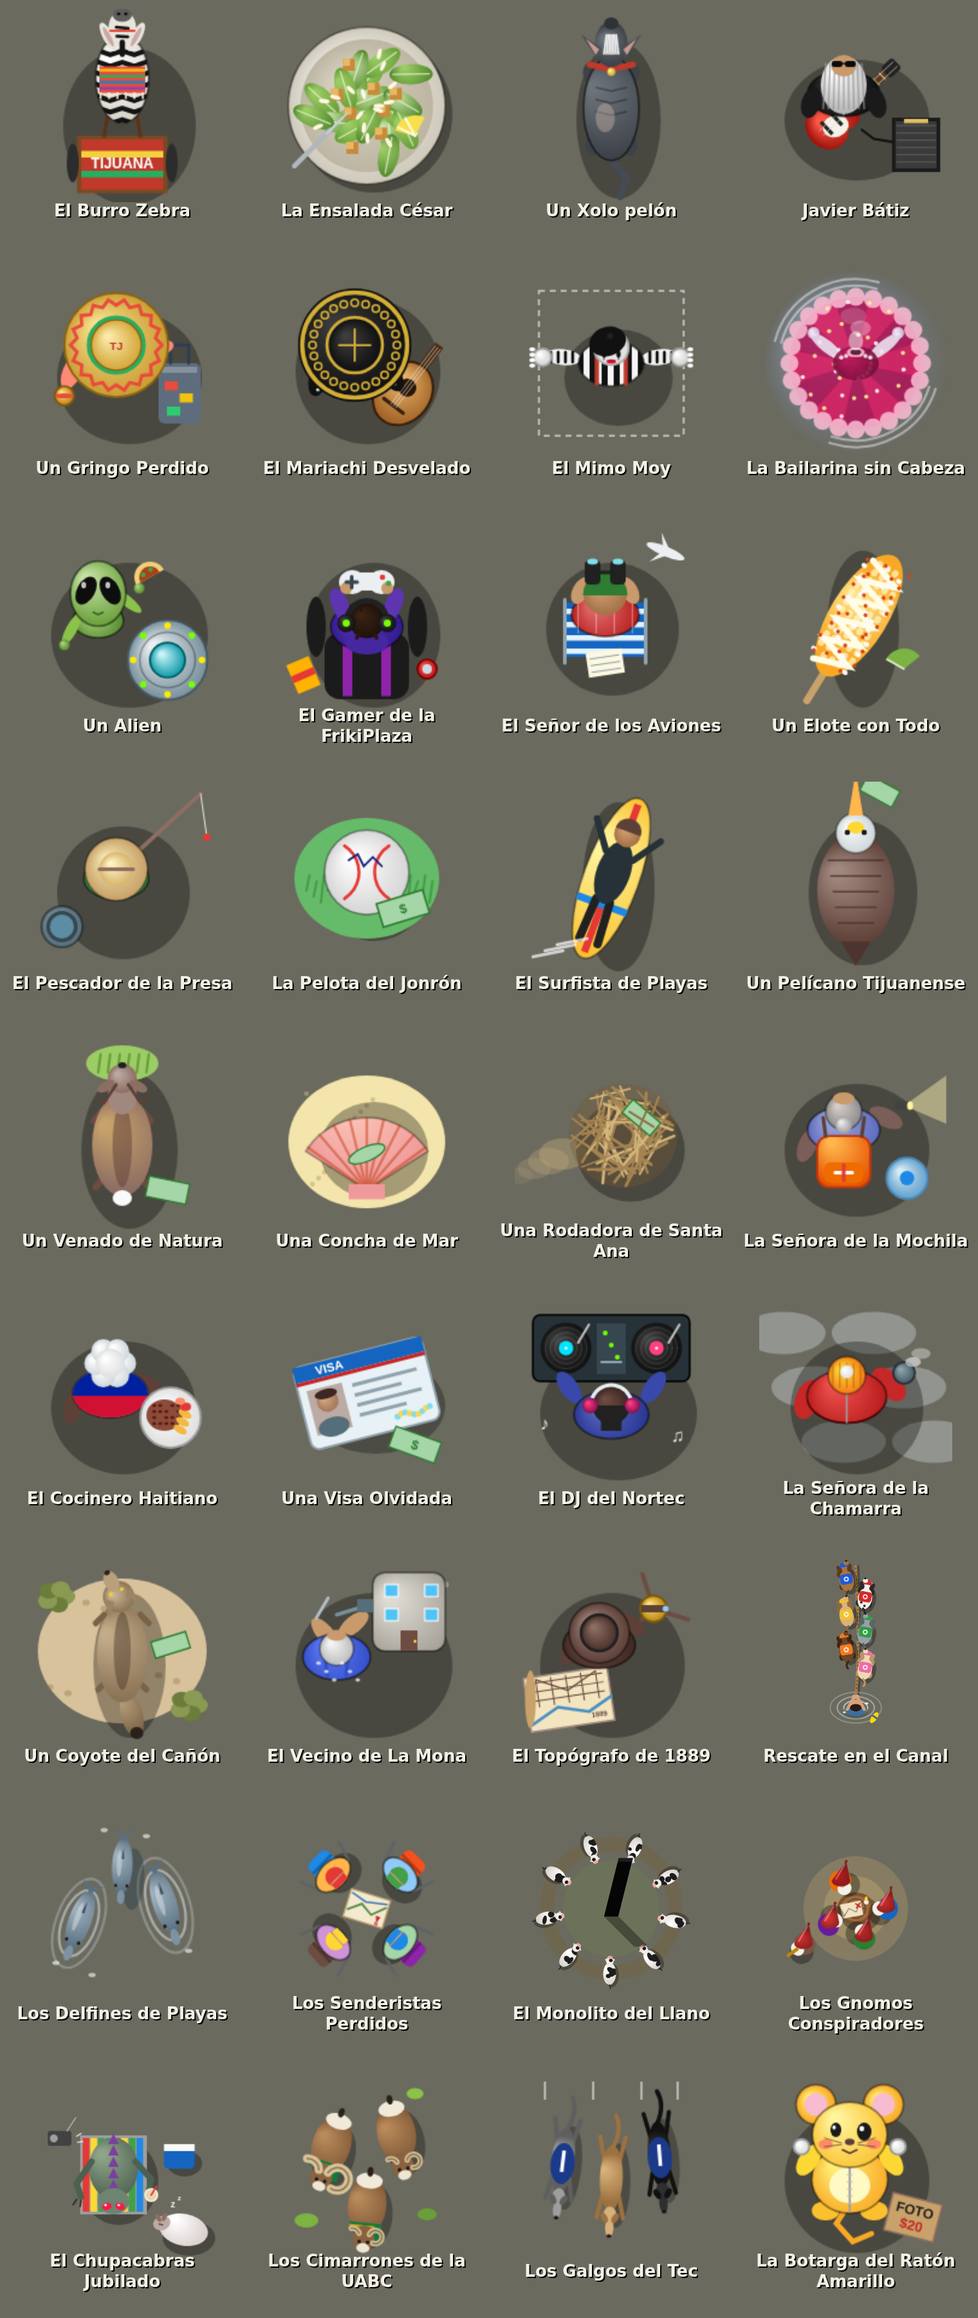
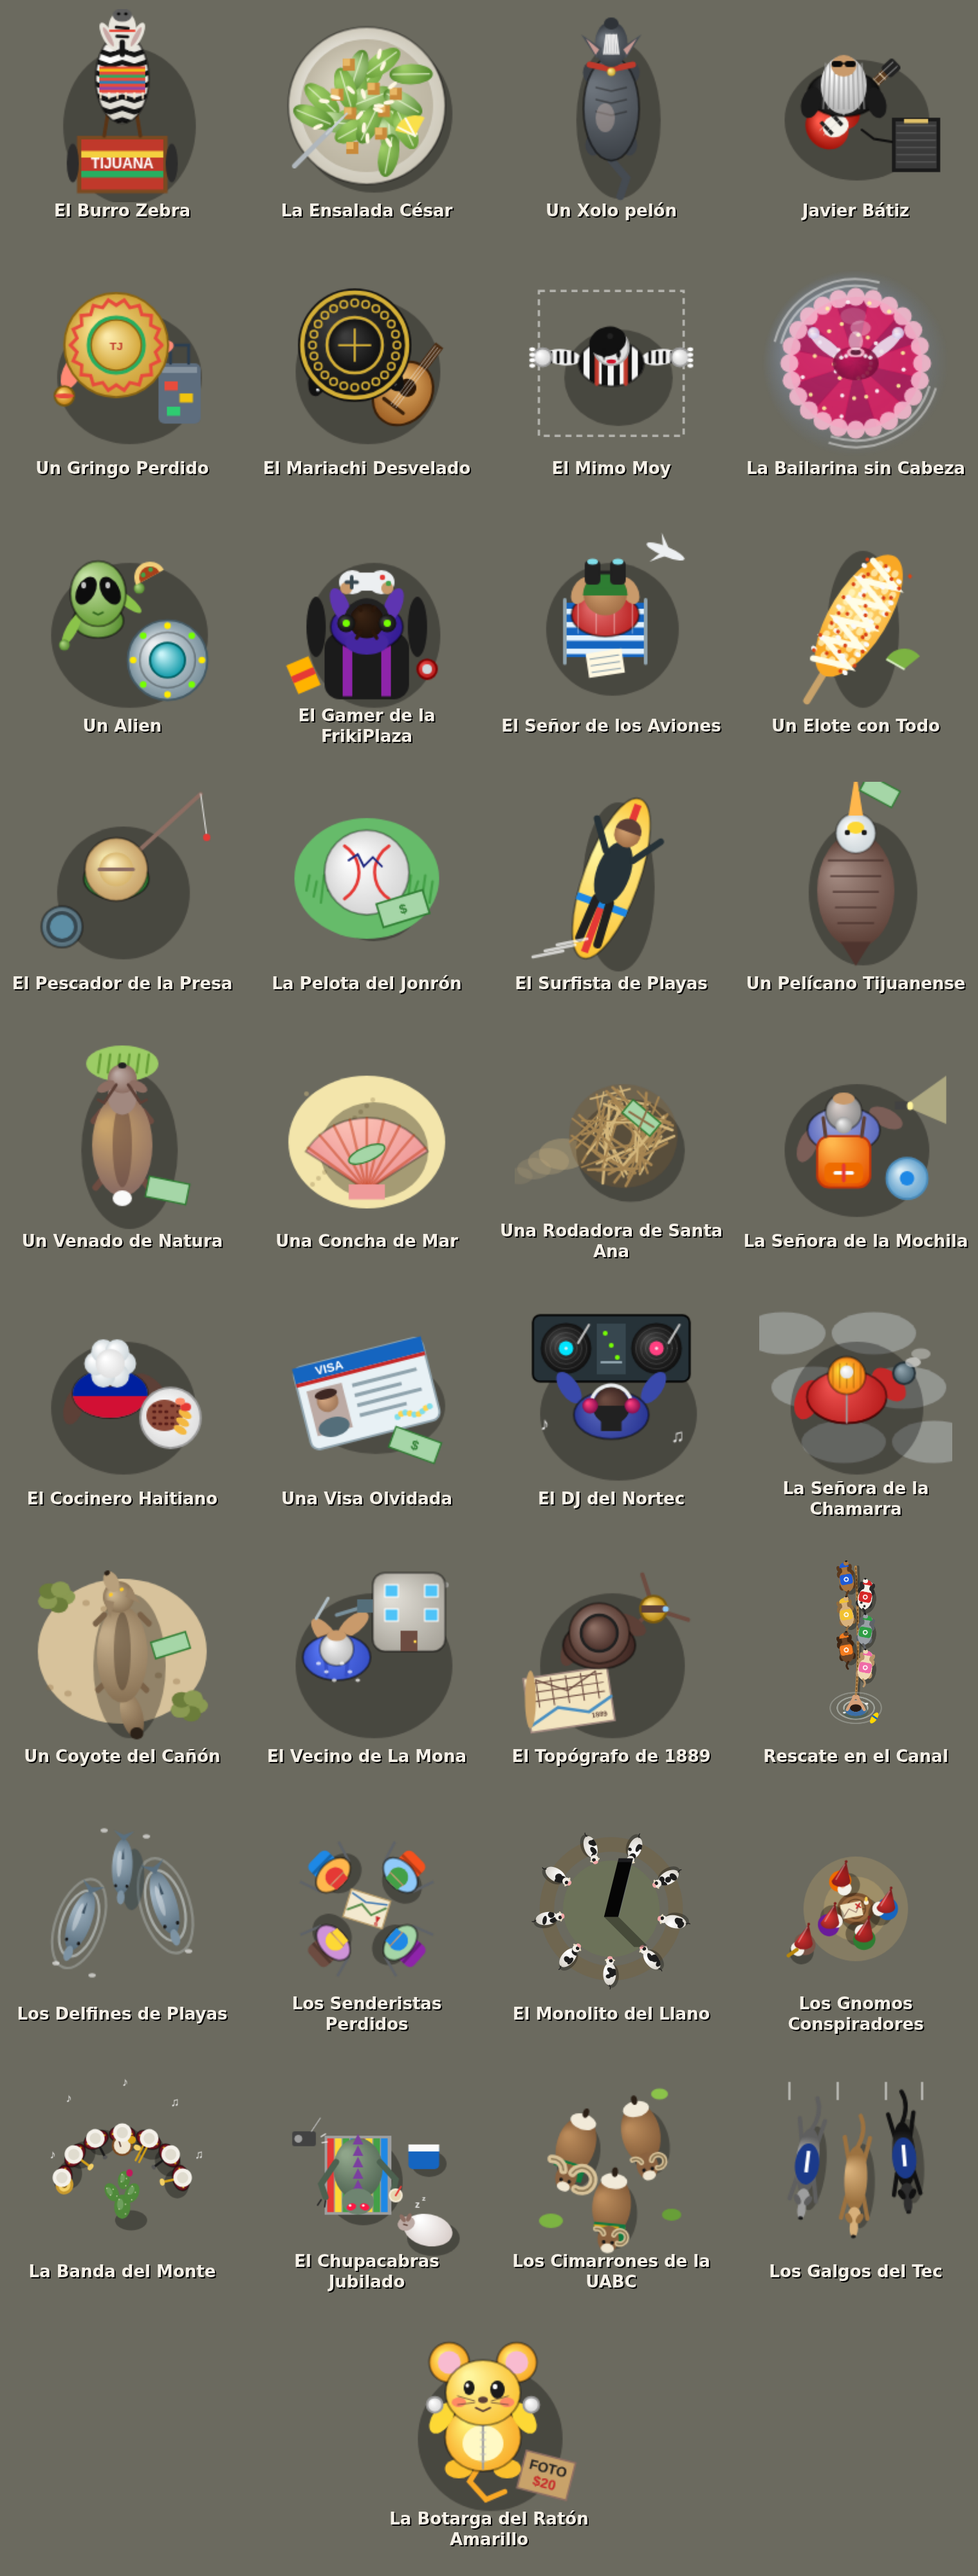
La banda del monte tocandole a un nopal, en Terrazas del Valle

diff --git a/src/game.js b/src/game.js
@@ -225,6 +225,9 @@ const EGGS = [
   // en un terreno vacio de Natura (sin calles, casas ni agua cerca)
   { k: 'gnomos', name: 'Los Gnomos Conspiradores', at: [12382, 13312], pay: 300, fija: true, libre: true, rot: 0, quieto: true, r: 70,
     say: '(Cinco gnomos de jardín en bolita, alrededor de un tronquito con una vela y un plano marcado con una X, se quedan quietitos en cuanto te ven.) Uno te guiñó el ojo y te pasó un billete "para que no hayas visto nada".' },
+  // en el monte de Terrazas del Valle (sin calles, casas ni agua cerca)
+  { k: 'banda', name: 'La Banda del Monte', at: [18162, 9912], pay: 300, fija: true, libre: true, rot: 0, quieto: true, r: 80,
+    say: '(En pleno monte, una banda completa, con tuba, tambora, trompetas, clarinetes y trombón, le toca con todo el corazón a un nopal.) "Nos dijeron que aquí era la boda." Te pasaron una lana para que les pidas una canción.' },
   // en el monte de La Presa (sin calles, casas ni agua cerca)
   { k: 'chupacabras', name: 'El Chupacabras Jubilado', at: [13742, 9912], pay: 300, fija: true, libre: true, rot: 0, quieto: true, r: 70,
     say: '(En pleno monte, el mismísimo chupacabras toma horchata en una silla de playa, junto a una cabra que duerme tranquilita.) "Ya nadie me tiene miedo; ahora me piden selfies." Te dio un billete medio mordido.' },
@@ -3211,6 +3214,12 @@ const FRASES_FIJAS = {
   '¡Nomás era mi chancla, no hacía falta tanto!', '¡Gracias, perritos! ¿Aceptan croquetas o transferencia?',
   '¡Que alguien les avise que ya me puedo parar, el agua me llega a la cintura!',
   '¡Yo nomás venía a ver si estaba la marea alta!',
+  ],
+  banda: [
+    '¡Y pura banda, compa!', 'Esta va dedicada al nopal, que no se ha ido en toda la noche.',
+    'Nos contrataron para una boda. Creo que nos dieron mal la dirección.', 'Llevamos tocando desde el sábado. Hoy es martes.',
+    'El de la tuba ya no siente los labios, pero no se raja.', '¿Otra? ¡Otra! ...el nopal pidió otra.',
+    'Se cobra por hora, pero al nopal le fiamos.', 'Aquí en el monte nadie se queja del ruido. Ensayamos a gusto.',
   ],
   chupacabras: [
     'Ya no se espanta nadie. En los noventa salía en todos los noticieros.', 'No, no chupo cabras. Soy vegetariano desde el 2003.',
@@ -6571,7 +6580,38 @@ function makeEggs(scene) {
     line('#5d4037', 0.3, [[30.4, 35.2], [31.2, 35.4]]); // ojo cerrado
     x.fillStyle = 'rgba(255,255,255,0.85)'; x.font = 'bold 2.2px sans-serif'; x.fillText('z', 33, 31.4); x.font = 'bold 1.6px sans-serif'; x.fillText('z', 34.6, 29.8);
   };
-  const GRANDE = { monolito: 120, gnomos: 48, chupacabras: 44 };
+  // la banda en medio circulo tocandole a un nopal: texanas blancas, camisas iguales y cada quien con su instrumento
+  draw.banda = () => {
+    const c = 24, cy = 30;
+    // el nopal: pencas verdes con espinitas y una tuna
+    shadow(c + 1, cy + 6, 4, 2.5);
+    for (const [px, py, a, k] of [[0, 4, 0, 1], [-2.6, 0.4, -0.5, 0.8], [2.4, 0.6, 0.45, 0.85], [0.4, -2.6, 0.1, 0.75]]) {
+      x.save(); x.translate(c + px, cy + py); x.rotate(a); ell('#4f8a3a', 0, 0, 2 * k, 3 * k); ell('rgba(255,255,255,0.18)', -0.5 * k, -0.6 * k, 0.8 * k, 1.4 * k);
+      for (let j = 0; j < 4; j++) ell('#e9e3c9', (j % 2 - 0.5) * 1.6 * k, (j - 1.5) * 1.2 * k, 0.15, 0.15); x.restore();
+    }
+    ell('#c2185b', c + 1.8, cy - 4.4, 0.8, 0.9); // la tuna
+    // los musicos en medio circulo arriba del nopal, viendolo
+    const M7 = ['tuba', 'trompeta', 'clarinete', 'tambora', 'trombon', 'clarinete', 'trompeta'];
+    M7.forEach((ins, i) => {
+      const a = Math.PI + (i + 0.5) / M7.length * Math.PI, mx = c + Math.cos(a) * 15, my = cy + Math.sin(a) * 14;
+      x.save(); x.translate(mx, my); x.rotate(Math.atan2(cy - my, c - mx) - Math.PI / 2); // +y hacia el nopal
+      shadow(0, 0, 3.6, 3);
+      shoulders(0, 0, '#9c1f2e', '#5e0f1a', 3.2, 2.1); // camisa vino de la banda
+      x.fillStyle = '#d4a017'; x.fillRect(-2.6, -0.3, 5.2, 0.5); // el bordado dorado
+      // el instrumento, hacia el frente
+      if (ins === 'tuba') { ell('#c99a2e', -1.6, 0.6, 2.4, 2.2); ell('#f2cf66', -1.6, 0.6, 1.7, 1.5); ell('#8a6514', -1.6, 0.6, 0.8, 0.7); }
+      else if (ins === 'tambora') { ell('#7a4a22', 0, 2.8, 2.6, 2.6); ell('#efe6d2', 0, 2.8, 2.1, 2.1); ell('#d4a017', 2.4, 1.4, 1, 1); line('#5d4037', 0.35, [[-1, 1], [-0.4, 3]]); }
+      else if (ins === 'trompeta') { line('#d4a017', 0.6, [[0, 1], [0, 4.4]]); ell('#f2cf66', 0, 4.8, 0.9, 0.6); }
+      else if (ins === 'clarinete') { line('#1b1b1b', 0.6, [[0, 1], [0, 4.6]]); ell('#555', 0, 4.9, 0.6, 0.45); }
+      else { line('#d4a017', 0.5, [[0.5, 1], [0.5, 6]]); line('#d4a017', 0.5, [[-0.5, 1], [-0.5, 6]]); ell('#f2cf66', -1.6, 3, 0.9, 0.7); } // trombon
+      ell('#f4f1ea', 0, -0.4, 2.3, 2.3); ell('#e0dccf', 0, -0.4, 1.4, 1.4); // la texana blanca, vista desde arriba
+      x.restore();
+    });
+    // las notitas en el aire
+    x.fillStyle = 'rgba(255,255,255,0.85)'; x.font = 'bold 3px sans-serif';
+    for (const [nx, ny, t] of [[10, 8, '♪'], [36, 9, '♫'], [24, 4, '♪'], [42, 22, '♫'], [6, 22, '♪']]) x.fillText(t, nx, ny);
+  };
+  const GRANDE = { monolito: 120, gnomos: 48, chupacabras: 44, banda: 48 };
   for (const k in draw) {
     const n = GRANDE[k] || 32, t = scene.textures.createCanvas('egg_' + k, n * 5, n * 5);
     x = t.getContext(); x.save(); x.scale(5, 5); draw[k](x); x.restore(); t.refresh();

diff --git a/src/style.css b/src/style.css
@@ -82,6 +82,7 @@ html, body { margin: 0; height: 100%; overflow: hidden; background: var(--bg); c
 /* los gatos de las azoteas: morado de noche con ojos amarillos, y muy creidos */
 .bubble.cachorros { --bg: #e8f4ff; --bd: #1e5bd8; --fg: #0d2a5c; font-weight: 700; }
 .bubble.repartidor { --bg: #fff3e0; --bd: #d84315; --fg: #3e1a00; font-weight: 700; }
+.bubble.banda { --bg: #fff7e0; --bd: #9c1f2e; --fg: #4a0a12; font-weight: 700; }
 .bubble.chupacabras { --bg: #2a1f35; --bd: #ff1744; --fg: #e9f5e8; font-weight: 700; }
 .bubble.gnomos { --bg: #1f3a1f; --bd: #d32f2f; --fg: #f4f1ea; font-size: 12px; font-style: italic; }
 .bubble.monolito { --bg: #0a0a0c; --bd: #c9ccd3; --fg: #f1f2f5; font-family: Georgia, 'Times New Roman', serif; letter-spacing: .02em; }

diff --git a/README.md b/README.md
@@ -53,9 +53,9 @@ T trabajar de taxista · M mapa grande (toca para marcar destino). En celular ha
 - Escenas de tráfico 💥: los cruceros donde más se choca en Tijuana (estudio Misión Cero 2015-2023, SSPCM y Bomberos): Aldrete y Negrete, Parque Baja California y Pedregal, Lázaro Cárdenas y la Vía Rápida, la Glorieta Cuauhtémoc, la Vía Rápida Poniente, Las 5 y 10, el Bulevar 2000 y la Glorieta Santa Fe. Al llegar a uno, 7 de cada 10 veces hay un choque, y no siempre el mismo: de lado, alcance, carambola de tres, esquinazo (uno se pasó el alto) o una moto tirada. Los carros tienen las intermitentes prendidas, hay vidrios en el piso, al que se dio de frente le sale humo, y los conductores discuten mientras el de tránsito los calma (a veces la patrulla todavía no llega y te piden que seas su testigo). El tráfico le da la vuelta y los carros no se pueden robar. Están en `ESCENAS` de src/game.js (cada una se pega a su calle real).
 - Sobreruedas 🛍: los mercados sobre ruedas de Tijuana en la calle donde se ponen: Zona Norte (Miguel F. Martínez), la Villa (Antonio Villareal), Playas (Paseo del Pedregal), Otay Bellas Artes, Otay Módulos (Sor Juana Inés de la Cruz), El Florido (Calle del Saucillo), La Curva (Ruta Mariano Matamoros) y la Sánchez Taboada (Cruz del Sur). En la vida real cada uno es un día o dos a la semana; aquí están siempre. Tienen puestos con lonas de colores (ropa de paca, fruta, juguetes, fierro viejo, tenis, plantas, pan y chácharas), vallas donde cruzan otras calles y gente comprando que se para a ver los puestos y te habla. La calle está cerrada a los carros (el tráfico y la flecha le dan la vuelta y tu carro no pasa de la valla) pero se camina. Están en `SOBRERUEDAS` de src/game.js.
 - La fila de las garitas 🚗: en San Ysidro y en Otay siempre hay fila para cruzar a Estados Unidos. Los carriles que llegan a la línea están llenos de carros, defensa con defensa, que no se mueven (dejan libres los cruces con otras calles). No se pueden robar: nadie suelta su lugar en la fila. De vez en cuando alguien pita o te dice algo desde su carro. Entre los carros caminan vendedores (churros, agua, cobijas, figuras de yeso y dulces) que se paran en las ventanillas, pregonan y te ofrecen lo suyo si te les acercas (`VENDEDORES`). Las garitas están en `GARITAS` y las frases en `FRASES_FILA` de src/game.js.
-- Secretos 🥚: 36 personajes y cosas típicas de Tijuana escondidos cerca de los lugares (el burro cebra, la ensalada César, Javier Bátiz, el Mimo Moy, el señor de los aviones, el pescador de la Presa, el surfista de Playas, un venado en Natura...). Al encontrarlos sueltan una frase y una lana. Los que te faltan salen en el minimapa y en el mapa grande con un signo de interrogación tenue. En las orillas hay 9 más que cuentan la historia de la ciudad: hechos recientes (el temblor de 2010, la llegada de los haitianos en 2016, la línea cerrada en 2020 y 2021), nostalgia (el Nortec, La Mona, el plano de 1889) y consejos de aquí (la Santa Ana, el mayo gris, los arroyos cuando llueve). También hay referencias que se quedan siempre en su lugar aunque ya las hayas encontrado (`fija`): en el canal del río, por Plaza Río Tijuana, seis perritos con chalequito y casco de colores saca a un señor del agua con una soga (y el señor grita cosas cuando pasas), el chupacabras jubilado tomando horchata en su silla de playa en el monte de La Presa, unos gnomos de jardín conspirando alrededor de una vela en un terreno vacío de Natura, nueve vacas en círculo mirando un monolito negro en un llano vacío del Cañón del Sainz, unos delfines en el mar de Playas, junto al muro, que se burlan de los humanos (cuentan desde la playa), unos senderistas perdidos con su mapa al revés a media ladera del Cerro Colorado, a unos pasos del mirador, y las mascotas de las escuelas afuera de su campus: unos borregos cimarrones con bufanda verde y dorada en la UABC y unos galgos con sudadera azul en el Tecnológico de Tijuana, que también te dicen algo al pasar. Están en `EGGS` de src/game.js.
+- Secretos 🥚: 37 personajes y cosas típicas de Tijuana escondidos cerca de los lugares (el burro cebra, la ensalada César, Javier Bátiz, el Mimo Moy, el señor de los aviones, el pescador de la Presa, el surfista de Playas, un venado en Natura...). Al encontrarlos sueltan una frase y una lana. Los que te faltan salen en el minimapa y en el mapa grande con un signo de interrogación tenue. En las orillas hay 9 más que cuentan la historia de la ciudad: hechos recientes (el temblor de 2010, la llegada de los haitianos en 2016, la línea cerrada en 2020 y 2021), nostalgia (el Nortec, La Mona, el plano de 1889) y consejos de aquí (la Santa Ana, el mayo gris, los arroyos cuando llueve). También hay referencias que se quedan siempre en su lugar aunque ya las hayas encontrado (`fija`): en el canal del río, por Plaza Río Tijuana, seis perritos con chalequito y casco de colores saca a un señor del agua con una soga (y el señor grita cosas cuando pasas), una banda completa tocándole a un nopal en el monte de Terrazas del Valle, el chupacabras jubilado tomando horchata en su silla de playa en el monte de La Presa, unos gnomos de jardín conspirando alrededor de una vela en un terreno vacío de Natura, nueve vacas en círculo mirando un monolito negro en un llano vacío del Cañón del Sainz, unos delfines en el mar de Playas, junto al muro, que se burlan de los humanos (cuentan desde la playa), unos senderistas perdidos con su mapa al revés a media ladera del Cerro Colorado, a unos pasos del mirador, y las mascotas de las escuelas afuera de su campus: unos borregos cimarrones con bufanda verde y dorada en la UABC y unos galgos con sudadera azul en el Tecnológico de Tijuana, que también te dicen algo al pasar. Están en `EGGS` de src/game.js.
 
-  ![Los 36 secretos](docs/easter-eggs.png)
+  ![Los 37 secretos](docs/easter-eggs.png)
 
 El progreso se guarda en el navegador (en la app, también en el almacén del teléfono), junto con dónde te quedaste: al volver a abrir apareces en el mismo lugar, y si ibas manejando, en el mismo carro.
 
